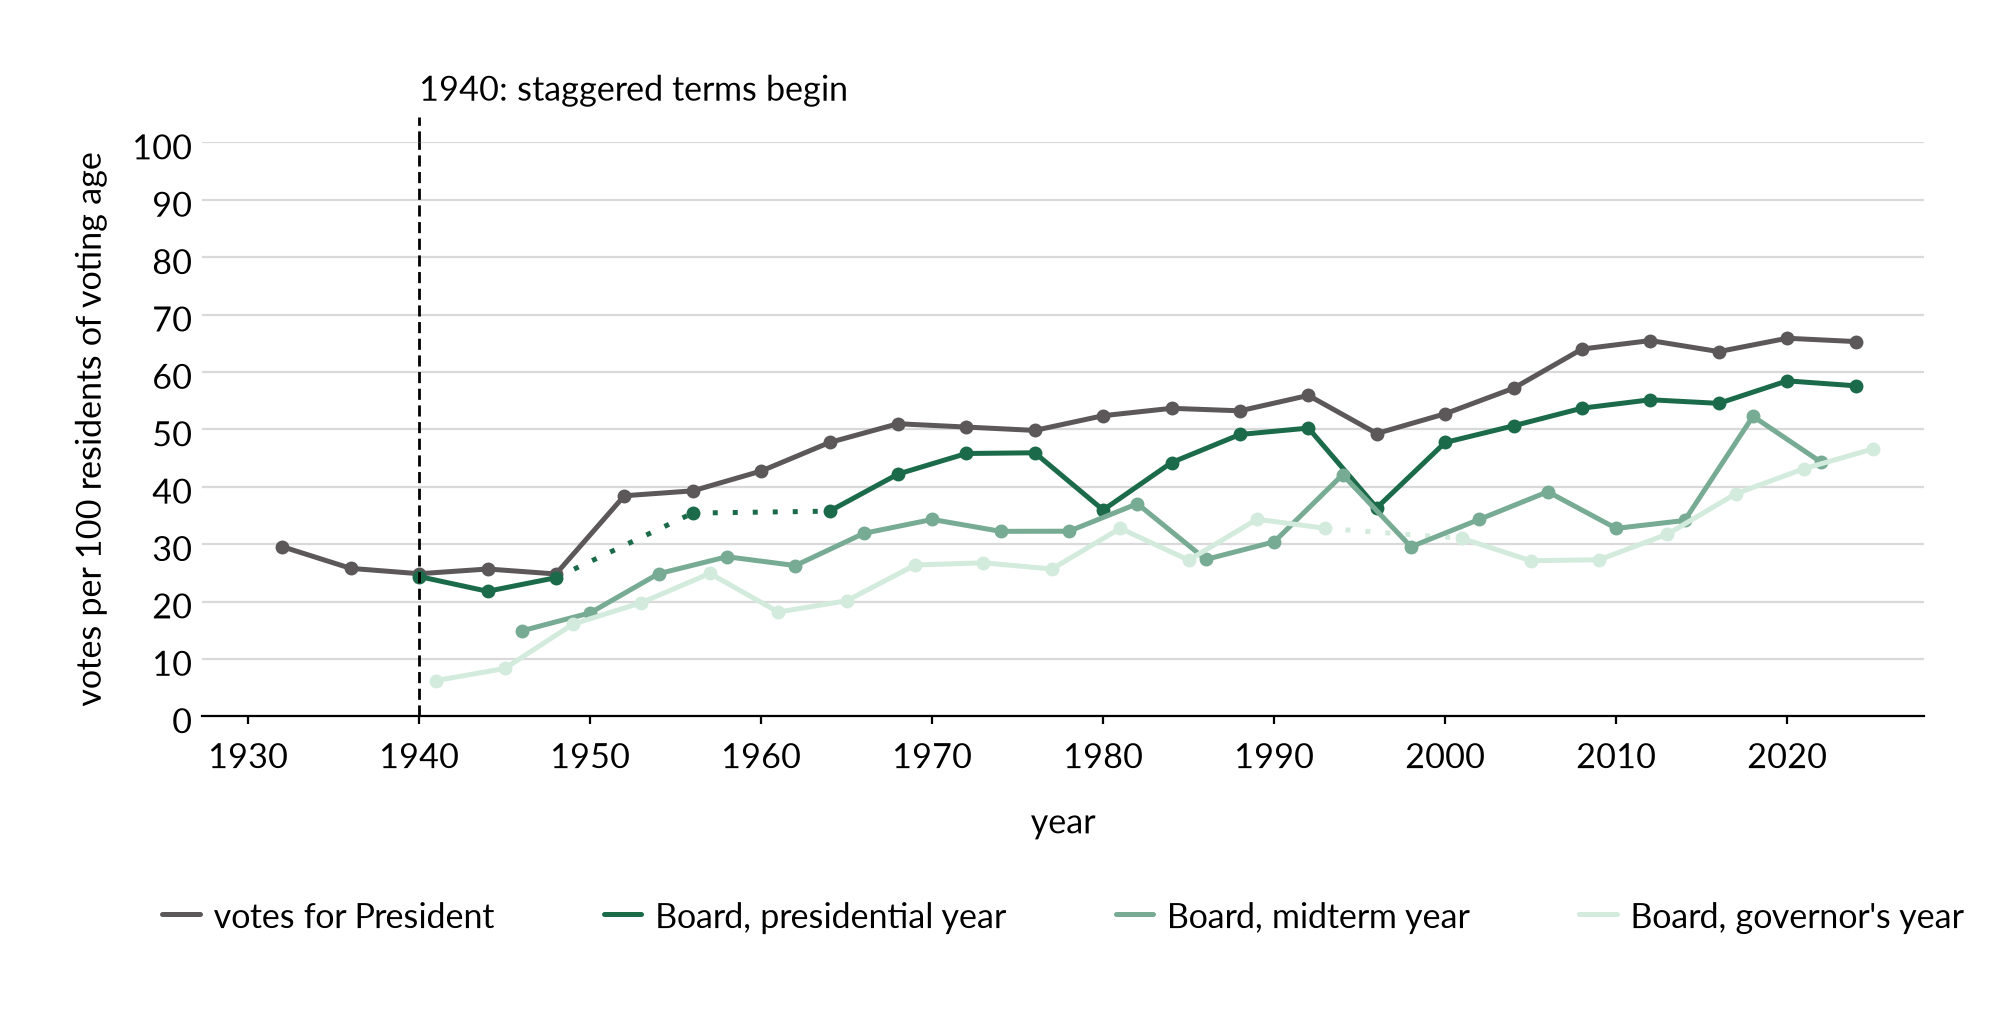
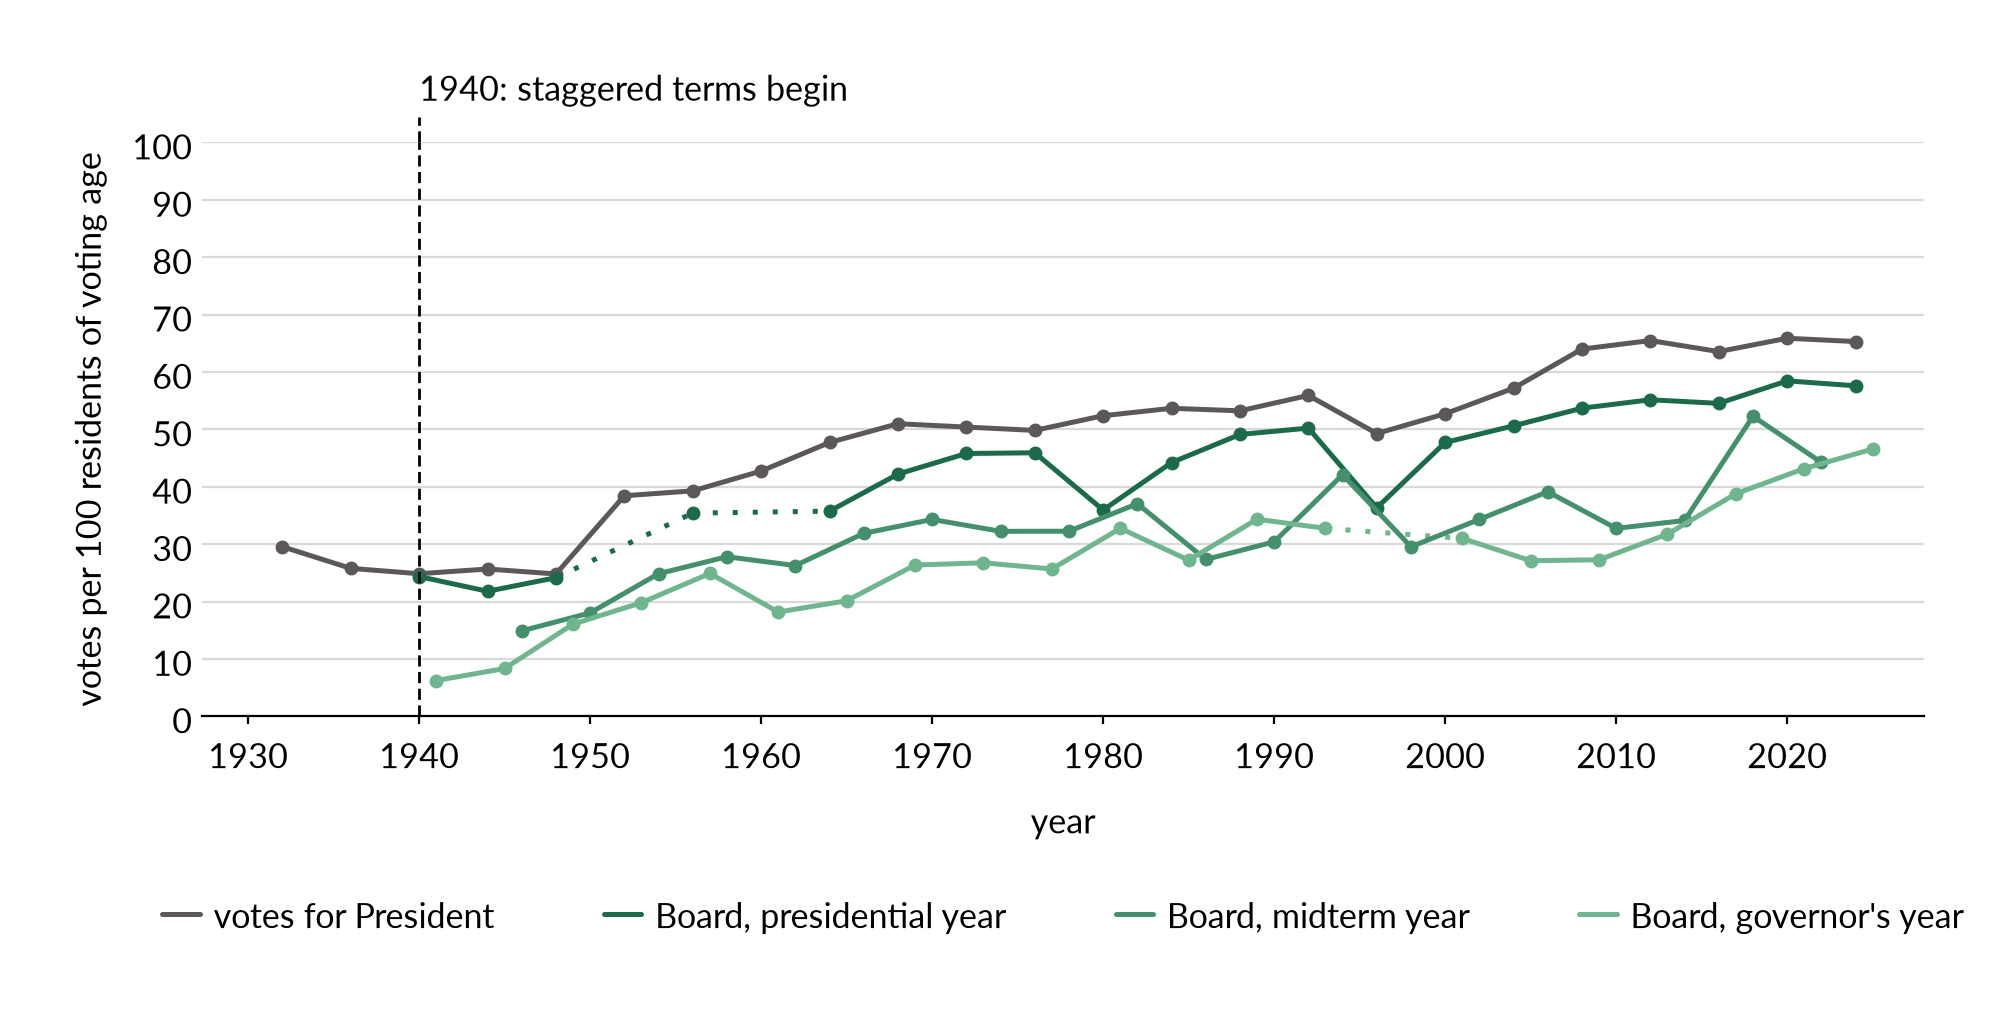
Punch list, 9 October: source timelines on one ramp, a line ramp for Figure 3, Table 1 at the page top, Table 2's columns and notes, part-title gap, the election calendar as a Part C question (Sally, 9 October 2026)

diff --git a/paper/tables/members_roster.tex b/paper/tables/members_roster.tex
@@ -50,8 +50,9 @@ William Duncan & 1895--1904 & election & 1854\textsuperscript{c} & man\textsuper
 A. D. Torreyson & 1897 & election & 1866\textsuperscript{c} & man\textsuperscript{c} & White\textsuperscript{c} \\
 George N. Saegmuller & 1897--1901 & election & 1847\textsuperscript{c} & man\textsuperscript{c} & White\textsuperscript{c} \\*
 D. N. Rust & 1899--1908 & election & 1850\textsuperscript{c} & man\textsuperscript{c} & White\textsuperscript{c} \\
-\end{longtable}\par\smallskip
-\noindent\figurenotes{Notes: Superscripts indicate the source for each record: the US census (c), press or published profile (p), or assumption (a). Two superscripts mean two kinds of source agree. A dash means no source gives the value.}{}\endgroup
+\end{longtable}\par
+\smallskip\noindent\figurenotes{Notes: Superscripts indicate the source for each record: the US census (c), press or published profile (p), or assumption (a). Two superscripts mean two kinds of source agree. A dash means no source gives the value. The marks are the same in Tables~\rostertable{}A through \rostertable{}D.}{}
+\endgroup
 \clearpage\begingroup
 \tabletitle[\rostertable{}B]{Board Members, First Seated 1900--1949}
 \medskip
@@ -101,8 +102,8 @@ Daniel A. Dugan & 1947--1952 & election & 1917\textsuperscript{c} & man\textsupe
 Harry W. Cuppett & 1947 & appointment & 1892\textsuperscript{c} & man\textsuperscript{c} & White\textsuperscript{c} \\
 Alfred E. Frisbie & 1947--1952 & appointment & 1912\textsuperscript{c} & man\textsuperscript{c} & White\textsuperscript{c} \\*
 Florence Cannon & 1948--1951 & election & 1889\textsuperscript{c} & woman\textsuperscript{c,\,p} & White\textsuperscript{c} \\
-\end{longtable}\par\smallskip
-\noindent\figurenotes{Notes: Superscripts indicate the source for each record: the US census (c), press or published profile (p), or assumption (a). Two superscripts mean two kinds of source agree. A dash means no source gives the value.}{}\endgroup
+\end{longtable}\par
+\endgroup
 \clearpage\begingroup
 \tabletitle[\rostertable{}C]{Board Members, First Seated 1950--1999}
 \medskip
@@ -164,8 +165,8 @@ Paul F. Ferguson & 1996--2007 & election & 1965\textsuperscript{p} & man\textsup
 Barbara A. Favola & 1997--2011 & special election & 1955\textsuperscript{p} & woman\textsuperscript{p} & White\textsuperscript{a} \\
 G.N. “Jay” Fisette, Jr. & 1998--2017 & election & 1956\textsuperscript{p} & man\textsuperscript{p} & White\textsuperscript{a} \\*
 Michael D. Lane & 1999 & special election & 1952\textsuperscript{p} & man\textsuperscript{p} & White\textsuperscript{a} \\
-\end{longtable}\par\smallskip
-\noindent\figurenotes{Notes: Superscripts indicate the source for each record: the US census (c), press or published profile (p), or assumption (a). Two superscripts mean two kinds of source agree. A dash means no source gives the value.}{}\endgroup
+\end{longtable}\par
+\endgroup
 \clearpage\begingroup
 \tabletitle[\rostertable{}D]{Board Members, First Seated 2000--2026}
 \medskip
@@ -193,5 +194,5 @@ Tannia Talento & 2023 & appointment & --- & woman\textsuperscript{p} & Hispanic\
 Maureen E. Coffey & 2024-- & election & 1995\textsuperscript{p} & woman\textsuperscript{p} & White\textsuperscript{a} \\
 Susan R. Cunningham & 2024-- & election & --- & woman\textsuperscript{p} & White\textsuperscript{a} \\*
 Julius D. "JD" Spain, Sr. & 2025-- & election & 1972\textsuperscript{p} & man\textsuperscript{p} & Black\textsuperscript{p} \\
-\end{longtable}\par\smallskip
-\noindent\figurenotes{Notes: Superscripts indicate the source for each record: the US census (c), press or published profile (p), or assumption (a). Two superscripts mean two kinds of source agree. A dash means no source gives the value.}{}\endgroup
+\end{longtable}\par
+\endgroup

diff --git a/style/style.py b/style/style.py
@@ -45,6 +45,19 @@ def ramp(n):
             for k in range(n)]
 
 
+# A line is thin, so the lightest step of the fill ramp vanishes on white. An
+# ordered figure drawn in lines or dots takes line_ramp(n): the same hue, with
+# the light end held to a step that reads on white. See docs/figures.md.
+LINE_SEQUENTIAL = ("#6FB68F", "#1B6B4A")
+
+
+def line_ramp(n):
+    """n colours for lines and dots, lightest first, every one readable on white."""
+    lo, hi = (tuple(int(c[i:i + 2], 16) for i in (1, 3, 5)) for c in LINE_SEQUENTIAL)
+    return ["#" + "".join(f"{round(a + (b - a) * k / (n - 1)):02X}" for a, b in zip(lo, hi))
+            for k in range(n)]
+
+
 # One table per subject: column -> (legend label, colour), in stacking
 # order, axis upward.
 RACE = {
@@ -188,7 +201,7 @@ PRESIDENT = ("votes for President", DARK)
 # that are drawn, for the widest separation between them. See docs/figures.md,
 # Colour.
 BOARD_VOTES = "votes for County Board"
-BOARD_FAMILY = dict(zip(("president", "midterm", "governor"), reversed(ramp(3))))
+BOARD_FAMILY = dict(zip(("president", "midterm", "governor"), reversed(line_ramp(3))))
 BOARD_CYCLES = {"president": "presidential year", "midterm": "midterm year",
                 "governor": "governor's year", "delegates": "House of Delegates year"}
 # The dated changes to who could vote that the turnout figure rules off:
@@ -229,7 +242,7 @@ AGREEMENT = {
     "Strongly Disagree": ("strongly disagree", OKABE_ITO["vermilion"]),
 }
 # The survey's three waves. Ordered, so the sequential profile, darkest latest.
-WAVES = dict(zip((2018, 2022, 2026), zip(("2018", "2022", "2026"), ramp(3))))
+WAVES = dict(zip((2018, 2022, 2026), zip(("2018", "2022", "2026"), line_ramp(3))))
 # The sample set against the county it is drawn from: the county in the
 # reference neutral the growth figures use, the respondents in the lead.
 SAMPLE = {"county": ("Arlington residents, 2020 census", DARK),
@@ -237,13 +250,13 @@ SAMPLE = {"county": ("Arlington residents, 2020 census", DARK),
 # One share measured across several cuts of one set of respondents: one
 # series, so one colour, and the near-neutral rather than a lead.
 SURVEY_SHARE = ("share of respondents", SAND_LINE)
-# A document naming the Board either records who held a seat or who won one
-# - the one substantive distinction among the sources themselves, so it
-# stays in the one neutral family rather than taking a category's hue.
-SOURCE_KIND = {
-    "election": ("members elected", SAND),
-    "service": ("members served", SAND_LINE),
-}
+# A document naming the Board either records who held a seat or who won one.
+# A record of service is the more complete (it shows the member sat, not only
+# won), so the pair is ordered and takes the one sequential ramp, an election
+# return lighter and service darker, as ELECTION_RETURNS does.
+SOURCE_KIND = dict(zip(
+    ("election", "service"),
+    zip(("members elected", "members served"), ramp(2))))
 # Which contests a source's returns are for. Ordered by how much of the vote
 # a source carries, so the one sequential ramp, lightest first: the Board's
 # vote, the presidential vote, and a source that carries both the darkest.

diff --git a/code/analysis/members_roster.py b/code/analysis/members_roster.py
@@ -21,7 +21,8 @@ The roster is printed as four panels, one era each, 3A through 3D in the
 paper, each its own numbered table so a reader can cite one panel. The eras
 are fixed (1870-1899, 1900-1949, 1950-1999, 2000-present), each a whole run of
 decades; a panel breaks only between decades, and longtable carries it across
-as many pages as it needs. The subset is every member who was a woman or a
+as many pages as it needs. The marks note prints once, under the first panel
+(a panel that fills its page leaves no room for one of its own). The subset is every member who was a woman or a
 member of color, once each, in the same rows and columns under a bold heading
 for the century they first took a seat, in one table the body \input{}s. The
 roster and the evidence behind each cell are data/clean/members.csv.
@@ -177,8 +178,11 @@ def tex(table: list, present: int) -> str:
             out.append(heading(f"{d}s", first=(j == 0)) + "\n")
             for i, r in enumerate(group):
                 out.append(line(r, len(group) > 1 and i in (0, len(group) - 2)) + "\n")
-        out.append("\\end{longtable}\\par\\smallskip\n")
-        out.append("\\noindent\\figurenotes{Notes: %s}{}\\endgroup\n" % MARKS_TEXT)
+        out.append("\\end{longtable}\\par\n")
+        if k == 0:
+            out.append("\\smallskip\\noindent\\figurenotes{Notes: %s The marks are the same in "
+                       "Tables~\\rostertable{}A through \\rostertable{}D.}{}\n" % MARKS_TEXT)
+        out.append("\\endgroup\n")
     return "".join(out)
 
 
@@ -190,7 +194,7 @@ def subsets_tex(table: list) -> str:
     group = [r for r in table if r.woman or r.of_color]
     assert group, "no woman or member of color found"
     centuries = sorted({r.decade // 100 * 100 for r in group})
-    out.append("\\begin{table}[b]\n")
+    out.append("\\begin{table}[t]\n")
     out.append("\\refstepcounter{table}\\label{tab:subsets}\n")
     out.append("\\tabletitle{Women and Members of Color on the Board}\n")
     out.append("\\medskip\n")

diff --git a/paper/3_future_work/future_work.tex b/paper/3_future_work/future_work.tex
@@ -142,10 +142,18 @@ seat at a time since
 Part A (Sections~\ref{sec:method} and~\ref{sec:who}) sets out each method's
 years.
 
-Four further questions come with either answer, and each turns on a question of
+Five further questions come with either answer, and each turns on a question of
 state law that this report leaves where it finds it.
 
 \begin{itemize}
+  \item Which election cycle the Board is elected on, and what aligning its
+  elections with federal or with state elections would do. Staggered terms
+  already put the Board's seats on ballots headed by a President, a governor or
+  only Congress, and the electorate that comes out differs with what heads the
+  ballot (Staggered Terms in Section~\ref{sec:method}, and
+  Figure~\ref{fig:turnout-board}). The state-law question is what fixes the
+  calendar: for a county under the manager plan, Virginia puts one or more seats
+  on each regular November ballot, for four-year terms.\autocite{vacode152705}
   \item Who draws the lines of a district, and by what criteria. The state-law
   question is what Virginia requires of the lines of a local district.
   \item What it costs to run for the Board and how campaigns are financed. The

diff --git a/paper/arlington-bsap.tex b/paper/arlington-bsap.tex
@@ -26,7 +26,7 @@
 \input{body_text_numbers}  % numbers the prose cites, written by code/analysis/body_text_numbers.py
 % The columns every table under paper/tables/ shares; a table is otherwise a
 % complete file, built and \input{}ed whole (CLAUDE.md, members_roster.py).
-\newcolumntype{Q}{@{}R{28}R{14}R{18}R{10}R{11}R{19}@{}}
+\newcolumntype{Q}{@{}R{32}R{14}R{16}R{9}R{11}R{18}@{}}
 \usepackage[margin=1in]{geometry}
 \usepackage[hidelinks]{hyperref}
 % Without this, LaTeX flushes footnotes directly below the body text and
@@ -82,7 +82,7 @@
 % (Sally, 5 October 2026). Space below is one line throughout, so a
 % heading sits close to its own text and the hierarchy reads in the space
 % above, not below.
-\titlespacing*{\part}{0pt}{2\baselineskip}{2\baselineskip}
+\titlespacing*{\part}{0pt}{2\baselineskip}{\baselineskip}
 % Sections are numbered within their part: A.1, A.2, ..., C.1.
 \counterwithin*{section}{part}
 \renewcommand{\thesection}{\thepart.\arabic{section}}

diff --git a/code/analysis/members_by_source.py b/code/analysis/members_by_source.py
@@ -11,7 +11,7 @@ of ticks instead, at the year each citekey's own date carries, and the row
 sorts by its earliest tick like any other.
 
 A document either records who held the seat or who won it, and the two
-colours carry that distinction (style.SOURCE_KIND): the Gazette row is mixed,
+shades of the one ramp carry that distinction, service the darker (style.SOURCE_KIND): the Gazette row is mixed,
 an appointment or a press mention of a sitting member beside a candidate list
 or an election return, so its ticks take the colour of the item, not the row.
 """

diff --git a/paper/tables/members_subsets.tex b/paper/tables/members_subsets.tex
@@ -1,6 +1,6 @@
 % Generated by code/analysis/members_roster.py from data/clean/members.csv.
 % Never edit by hand: bash run.sh rewrites it.
-\begin{table}[b]
+\begin{table}[t]
 \refstepcounter{table}\label{tab:subsets}
 \tabletitle{Women and Members of Color on the Board}
 \medskip

diff --git a/docs/punchlist.md b/docs/punchlist.md
@@ -11,16 +11,9 @@ the paper, commits, and deletes the lines it cleared. What it cannot settle
 stays, with a one-line reason under it.
 
 ## Open
-- Data Appendix: the two source timelines, members_by_source and elections_by_source, are different colours although they are the same kind of figure. Both are ordered, so both take the one sequential ramp: in members_by_source a record of service is more complete than an election return (it shows the member sat, not only won), so election return lighter, service darker, replacing the two categorical colours of style.SOURCE_KIND; elections_by_source keeps its Board, President, both ramp (style.ELECTION_RETURNS). Show Sally the two side by side before merging (Sally, 9 Oct).
 - Part C, Board Structure, Figure 12 (localities_southeastern): the residents axis breaks with charts.break_x, the way localities_peers panel (a) breaks to keep Fairfax in view, so the empty stretch from 0 to 150,000 is cut and the dots fill the width; residents in thousands to match the peers figure (Sally, 9 Oct).
-- Table 1 (members_subsets, written by code/analysis/members_roster.py into paper/tables/members_subsets.tex): placed at the top of its page, not the bottom; the float is [b] today, so [t] in the generator, not in the .tex (Sally, 9 Oct).
-- Figure 3 (elections_turnout_board): the governor's-year line, the palest step of style.ramp(3), is too hard to read on white, and its dotted bridge across the 1990s barely shows. A line needs more contrast than a fill: a ramp for lines whose lightest step reads on white, set in style/ so every ordered line figure follows (WAVES and the rest), not a colour typed in the figure; show Sally the PNG before merging (Sally, 9 Oct).
 - Part A preamble (paper/1_history/intro.tex, placeholder today): the district map (residents_by_district_map, Figure 2 in Board Structure) moves up to become Figure 1, tied to the preamble, which describes the Board's creation from the townships (the three magisterial districts) and says that throughout the analysis the territory studied is the land the Board governed at the time, the county less what Alexandria annexed. Structural: moves a figure and writes the preamble's first sentences (Sally, 9 Oct).
-- Part C, Election Method: add the election calendar as a question a review would take up: which cycle the Board is elected on, and what aligning its elections with federal or with state elections would do. Part A's Staggered Terms and Figure 3 (elections_turnout_board) already show the Board's electorate varying with what leads the ballot, presidential, midterm or governor's year; the question points back to that, takes no position, and cites the statute that sets the calendar. Structural: adds a question to the section's two-question framing (Sally, 9 Oct).
-- Roster, Table 2C (paper/tables/members_roster.tex, written by code/analysis/members_roster.py): the panel's notes fall onto a page of their own after the longtable ends. Find why in the compiled PDF and fix it in the generator, never the .tex; the same notes repeat under every panel, so printing them once may be the fix (Sally, 9 Oct).
-- Roster, Table 2 (code/analysis/members_roster.py): the column spacing still looks uneven; the "Race and Ethnicity" header is likely wider than every value under it and sets the last column's width. Try the header on two lines, or columns spread to the text width, and show Sally the page before merging (Sally, 9 Oct).
 - District map title: "Board Districts, 1870--1931", replacing "The Three Magisterial Districts, 1870--1931" (the \figuretitle wherever the map sits once the Part A preamble moves it) (Sally, 9 Oct).
-- Part titles (Parts A, B, C): the gap between a part's title and its first paragraph is about twice the gap under a section heading; tighten the \part spacing in the wrapper's preamble so the first paragraph sits under the title the way a section's does (Sally, 9 Oct).
 
 ## Could not settle
 - Board Seats: the federal-office statute (Acts 1883-84 ch. 145) that emptied Perkins W. Squier's seat in 1884 is, as Code 1950 § 2-27, the one Dean v. Paolicelli applied to take the Board's Non-Partisan majority in 1952, so Arlington held four Board contests on 4 November 1952; one provision at both ends of the period, not yet in the paper (paolicelli1952, dailysun1952appointees). (members.md split, 4 Oct)

diff --git a/docs/figures.md b/docs/figures.md
@@ -65,6 +65,12 @@ Ordered categories take one sequential ramp, `style.SEQUENTIAL`, drawn on by
 more of the thing. Unordered categories take Okabe-Ito, where no hue implies
 a rank. A figure never defines a ramp of its own.
 
+**A line is thinner than a fill, so it takes `style.line_ramp(n)`.** The same
+hue with the light end held to a step that reads on white: the fill ramp's
+lightest step vanishes as a line or a dot. An ordered figure drawn in lines or
+dots (`elections_turnout_board`, `survey_satisfaction_by_year`) takes it; an
+ordered figure drawn in fills takes `style.ramp(n)` (Sally, 9 October 2026).
+
 - Ordered: `residents_by_age` (young to old), `members_residence_coverage`
   (how exactly a home is named), and `elections_turnout_board` (what led the
   ballot, by falling turnout). All three draw from the one ramp, so they read
@@ -100,7 +106,7 @@ a rank. A figure never defines a ramp of its own.
 - **Turnout.** The presidential vote is the reference the Board's voters are
   read against, and takes the growth figure's dark grey, in both turnout
   figures. The Board's voters, in elections_turnout_board, are ordered by
-  what led the ballot, not categorical, so they take `style.ramp(3)` off the
+  what led the ballot, not categorical, so they take `style.line_ramp(3)` off the
   one sequential green rather than a family of their own: darkest for a
   presidential year, lighter for a midterm, lightest for a governor's year.
   A House of Delegates year is never drawn (every one is a two-seat gap), so
@@ -693,7 +699,7 @@ there the labels can be shortened and here the years cannot.
 - **elections_turnout_board.** One panel, 1932 to the present, the other half
   of the same cut. The presidential vote is one grey line throughout and the
   thread of the figure; the Board's vote is `style.BOARD_FAMILY`, three
-  shades off the one sequential green ramp (`style.ramp(3)`, Colour above),
+  shades off the one sequential green ramp (`style.line_ramp(3)`, Colour above),
   by what led the ballot, presidential, midterm and governor's year, darkest
   first, drawn only in years with one seat on the ballot. Grey against green
   so the Board reads as one thing against the presidential line, three shades
@@ -798,12 +804,12 @@ there the labels can be shortened and here the years cannot.
   dots, which read as a different kind of mark from the bars above them
   rather than the same row continued (Sally, 6 October 2026).
 
-  A document either records who held the seat or who won it, and that is
-  the one substantive distinction among the sources themselves, so it
-  stays in the near-neutral family rather than taking a category's hue
-  (`style.SOURCE_KIND`): the lighter sand fill for members elected, the
-  taupe stroke colour for members served, lighter first in the legend
-  (Sally, 6 October 2026). The Gazette row is the case the distinction is
+  A document either records who held the seat or who won it. A record of
+  service is the more complete, since it shows the member sat and not only
+  won, so the pair is ordered and takes the one sequential ramp
+  (`style.SOURCE_KIND`), as `elections_by_source` does: members elected
+  light, members served dark, lighter first in the legend (Sally, 9 October
+  2026, replacing the two near-neutrals of 6 October). The Gazette row is the case the distinction is
   for: an appointment, a qualification or a press mention of a sitting
   member is service, a candidate list or an election return is a contest,
   read off each citekey's own entry in `paper/bib/sources.bib` rather than

diff --git a/.claude/skills/figures/SKILL.md b/.claude/skills/figures/SKILL.md
@@ -208,7 +208,8 @@ open (Sally, 5 October 2026).
   compared differ in size, through `charts.hwhiskers()`, which holds the
   interval inside the scale.
 - **Ordered categories take `style.ramp(n)`; unordered take Okabe-Ito.** Age
-  and residence coverage are ordered. Never define a ramp in a figure.
+  and residence coverage are ordered. Never define a ramp in a figure. Lines and dots take
+  `style.line_ramp(n)`, whose lightest step reads on white (9 October 2026).
 - **Where a category's definition changes mid-figure, the legend does not
   relabel silently.** `residents_by_race` says "not Hispanic" (`style.RESIDENTS_CROSSED`)
   and rules off 1980; `members_by_race` keeps `style.RACE`.
